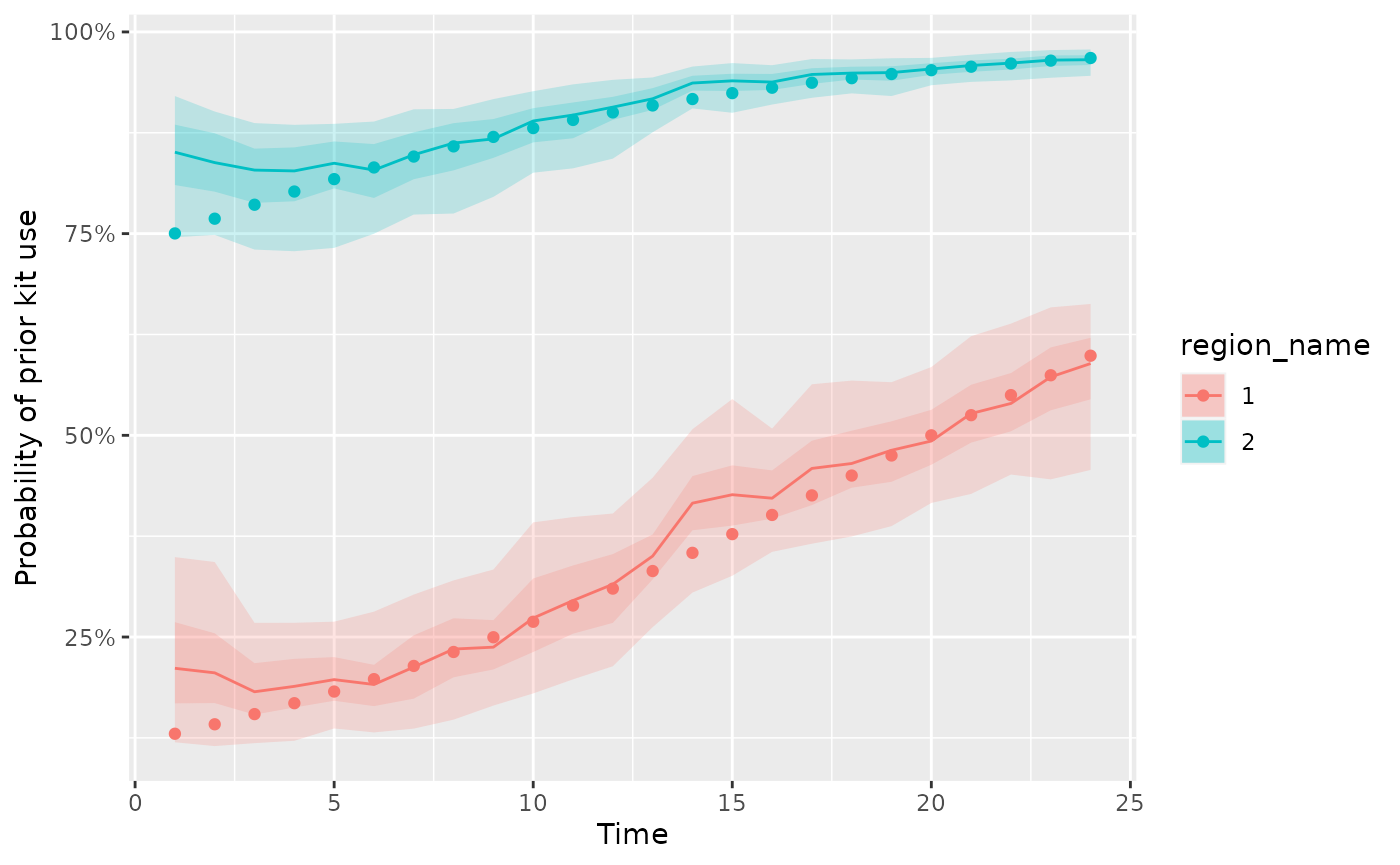
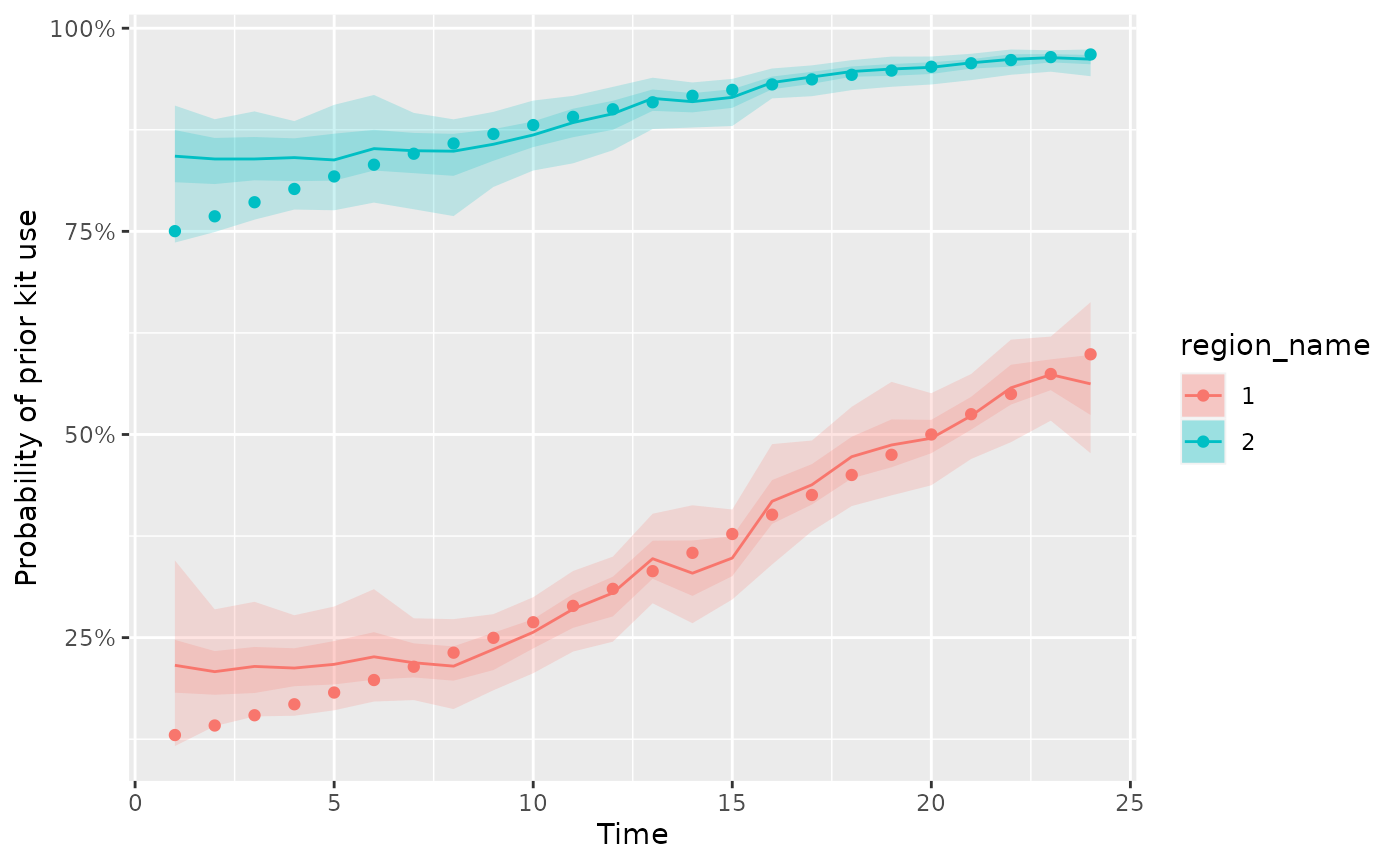
Deploying to gh-pages from @ sempwn/bennu@9a4c8904fc92a9faf738fc39748a7a899d02083f 🚀

diff --git a/articles/Introduction.html b/articles/Introduction.html
@@ -135,7 +135,7 @@
 <span><span class="co">#&gt; <span style="color: #555555;">This warning is displayed once every 8 hours.</span></span></span>
 <span><span class="co">#&gt; <span style="color: #555555;">Call `lifecycle::last_lifecycle_warnings()` to see where this warning was</span></span></span>
 <span><span class="co">#&gt; <span style="color: #555555;">generated.</span></span></span>
-<span><span class="co">#&gt; Warning: There were 8 divergent transitions after warmup. See</span></span>
+<span><span class="co">#&gt; Warning: There were 34 divergent transitions after warmup. See</span></span>
 <span><span class="co">#&gt; https://mc-stan.org/misc/warnings.html#divergent-transitions-after-warmup</span></span>
 <span><span class="co">#&gt; to find out why this is a problem and how to eliminate them.</span></span>
 <span><span class="co">#&gt; Warning: Examine the pairs() plot to diagnose sampling problems</span></span>
@@ -172,18 +172,18 @@
 <span></span>
 <span><span class="fu"><a href="https://mc-stan.org/posterior/reference/draws_summary.html" class="external-link">summarise_draws</a></span><span class="op">(</span><span class="va">fit</span>, <span class="fu"><a href="https://mc-stan.org/posterior/reference/draws_summary.html" class="external-link">default_summary_measures</a></span><span class="op">(</span><span class="op">)</span><span class="op">)</span></span>
 <span><span class="co">#&gt; <span style="color: #949494;"># A tibble: 462 × 7</span></span></span>
-<span><span class="co">#&gt;    variable   mean median    sd   mad    q5    q95</span></span>
-<span><span class="co">#&gt;    <span style="color: #949494; font-style: italic;">&lt;chr&gt;</span>     <span style="color: #949494; font-style: italic;">&lt;num&gt;</span>  <span style="color: #949494; font-style: italic;">&lt;num&gt;</span> <span style="color: #949494; font-style: italic;">&lt;num&gt;</span> <span style="color: #949494; font-style: italic;">&lt;num&gt;</span> <span style="color: #949494; font-style: italic;">&lt;num&gt;</span>  <span style="color: #949494; font-style: italic;">&lt;num&gt;</span></span></span>
-<span><span class="co">#&gt; <span style="color: #BCBCBC;"> 1</span> logp[1]  -<span style="color: #BB0000;">1.25</span>  -<span style="color: #BB0000;">1.26</span>  0.393 0.388 -<span style="color: #BB0000;">1.83</span> -<span style="color: #BB0000;">0.613</span></span></span>
-<span><span class="co">#&gt; <span style="color: #BCBCBC;"> 2</span> logp[2]  -<span style="color: #BB0000;">1.37</span>  -<span style="color: #BB0000;">1.36</span>  0.369 0.398 -<span style="color: #BB0000;">1.93</span> -<span style="color: #BB0000;">0.808</span></span></span>
-<span><span class="co">#&gt; <span style="color: #BCBCBC;"> 3</span> logp[3]  -<span style="color: #BB0000;">1.56</span>  -<span style="color: #BB0000;">1.55</span>  0.296 0.306 -<span style="color: #BB0000;">2.06</span> -<span style="color: #BB0000;">1.08</span> </span></span>
-<span><span class="co">#&gt; <span style="color: #BCBCBC;"> 4</span> logp[4]  -<span style="color: #BB0000;">1.48</span>  -<span style="color: #BB0000;">1.48</span>  0.280 0.257 -<span style="color: #BB0000;">1.96</span> -<span style="color: #BB0000;">1.11</span> </span></span>
-<span><span class="co">#&gt; <span style="color: #BCBCBC;"> 5</span> logp[5]  -<span style="color: #BB0000;">1.35</span>  -<span style="color: #BB0000;">1.34</span>  0.193 0.185 -<span style="color: #BB0000;">1.65</span> -<span style="color: #BB0000;">1.06</span> </span></span>
-<span><span class="co">#&gt; <span style="color: #BCBCBC;"> 6</span> logp[6]  -<span style="color: #BB0000;">1.51</span>  -<span style="color: #BB0000;">1.51</span>  0.244 0.239 -<span style="color: #BB0000;">1.92</span> -<span style="color: #BB0000;">1.10</span> </span></span>
-<span><span class="co">#&gt; <span style="color: #BCBCBC;"> 7</span> logp[7]  -<span style="color: #BB0000;">1.26</span>  -<span style="color: #BB0000;">1.29</span>  0.288 0.304 -<span style="color: #BB0000;">1.68</span> -<span style="color: #BB0000;">0.778</span></span></span>
-<span><span class="co">#&gt; <span style="color: #BCBCBC;"> 8</span> logp[8]  -<span style="color: #BB0000;">1.23</span>  -<span style="color: #BB0000;">1.19</span>  0.333 0.269 -<span style="color: #BB0000;">1.78</span> -<span style="color: #BB0000;">0.730</span></span></span>
-<span><span class="co">#&gt; <span style="color: #BCBCBC;"> 9</span> logp[9]  -<span style="color: #BB0000;">1.18</span>  -<span style="color: #BB0000;">1.17</span>  0.209 0.182 -<span style="color: #BB0000;">1.55</span> -<span style="color: #BB0000;">0.846</span></span></span>
-<span><span class="co">#&gt; <span style="color: #BCBCBC;">10</span> logp[10] -<span style="color: #BB0000;">0.940</span> -<span style="color: #BB0000;">0.928</span> 0.318 0.313 -<span style="color: #BB0000;">1.48</span> -<span style="color: #BB0000;">0.453</span></span></span>
+<span><span class="co">#&gt;    variable  mean median     sd    mad    q5    q95</span></span>
+<span><span class="co">#&gt;    <span style="color: #949494; font-style: italic;">&lt;chr&gt;</span>    <span style="color: #949494; font-style: italic;">&lt;num&gt;</span>  <span style="color: #949494; font-style: italic;">&lt;num&gt;</span>  <span style="color: #949494; font-style: italic;">&lt;num&gt;</span>  <span style="color: #949494; font-style: italic;">&lt;num&gt;</span> <span style="color: #949494; font-style: italic;">&lt;num&gt;</span>  <span style="color: #949494; font-style: italic;">&lt;num&gt;</span></span></span>
+<span><span class="co">#&gt; <span style="color: #BCBCBC;"> 1</span> logp[1]  -<span style="color: #BB0000;">1.31</span>  -<span style="color: #BB0000;">1.28</span> 0.367  0.308  -<span style="color: #BB0000;">2.03</span> -<span style="color: #BB0000;">0.668</span></span></span>
+<span><span class="co">#&gt; <span style="color: #BCBCBC;"> 2</span> logp[2]  -<span style="color: #BB0000;">1.35</span>  -<span style="color: #BB0000;">1.37</span> 0.283  0.283  -<span style="color: #BB0000;">1.88</span> -<span style="color: #BB0000;">0.920</span></span></span>
+<span><span class="co">#&gt; <span style="color: #BCBCBC;"> 3</span> logp[3]  -<span style="color: #BB0000;">1.29</span>  -<span style="color: #BB0000;">1.29</span> 0.278  0.283  -<span style="color: #BB0000;">1.71</span> -<span style="color: #BB0000;">0.784</span></span></span>
+<span><span class="co">#&gt; <span style="color: #BCBCBC;"> 4</span> logp[4]  -<span style="color: #BB0000;">1.35</span>  -<span style="color: #BB0000;">1.36</span> 0.193  0.209  -<span style="color: #BB0000;">1.68</span> -<span style="color: #BB0000;">1.07</span> </span></span>
+<span><span class="co">#&gt; <span style="color: #BCBCBC;"> 5</span> logp[5]  -<span style="color: #BB0000;">1.28</span>  -<span style="color: #BB0000;">1.27</span> 0.223  0.215  -<span style="color: #BB0000;">1.67</span> -<span style="color: #BB0000;">0.916</span></span></span>
+<span><span class="co">#&gt; <span style="color: #BCBCBC;"> 6</span> logp[6]  -<span style="color: #BB0000;">1.19</span>  -<span style="color: #BB0000;">1.24</span> 0.261  0.264  -<span style="color: #BB0000;">1.56</span> -<span style="color: #BB0000;">0.747</span></span></span>
+<span><span class="co">#&gt; <span style="color: #BCBCBC;"> 7</span> logp[7]  -<span style="color: #BB0000;">1.25</span>  -<span style="color: #BB0000;">1.25</span> 0.173  0.185  -<span style="color: #BB0000;">1.55</span> -<span style="color: #BB0000;">1.00</span> </span></span>
+<span><span class="co">#&gt; <span style="color: #BCBCBC;"> 8</span> logp[8]  -<span style="color: #BB0000;">1.33</span>  -<span style="color: #BB0000;">1.32</span> 0.170  0.161  -<span style="color: #BB0000;">1.61</span> -<span style="color: #BB0000;">1.09</span> </span></span>
+<span><span class="co">#&gt; <span style="color: #BCBCBC;"> 9</span> logp[9]  -<span style="color: #BB0000;">1.21</span>  -<span style="color: #BB0000;">1.21</span> 0.101  0.085<span style="text-decoration: underline;">8</span> -<span style="color: #BB0000;">1.40</span> -<span style="color: #BB0000;">1.07</span> </span></span>
+<span><span class="co">#&gt; <span style="color: #BCBCBC;">10</span> logp[10] -<span style="color: #BB0000;">1.05</span>  -<span style="color: #BB0000;">1.05</span> 0.081<span style="text-decoration: underline;">8</span> 0.082<span style="text-decoration: underline;">3</span> -<span style="color: #BB0000;">1.18</span> -<span style="color: #BB0000;">0.924</span></span></span>
 <span><span class="co">#&gt; <span style="color: #949494;"># ℹ 452 more rows</span></span></span></code></pre></div>
 <p>We can compare two different model fits of the probability of prior
 kit use to simulated data using the <code>plot_kit_use</code>
@@ -246,11 +246,11 @@ probability of naloxone use in time.</p>
 <span><span class="va">rw2_fit</span> <span class="op">&lt;-</span> <span class="fu"><a href="../reference/est_naloxone.html">est_naloxone</a></span><span class="op">(</span><span class="va">d</span>,</span>
 <span>                    rw_type <span class="op">=</span> <span class="fl">2</span>,</span>
 <span>                    iter<span class="op">=</span><span class="fl">100</span><span class="op">)</span></span>
-<span><span class="co">#&gt; Warning: There were 4 divergent transitions after warmup. See</span></span>
+<span><span class="co">#&gt; Warning: There were 44 divergent transitions after warmup. See</span></span>
 <span><span class="co">#&gt; https://mc-stan.org/misc/warnings.html#divergent-transitions-after-warmup</span></span>
 <span><span class="co">#&gt; to find out why this is a problem and how to eliminate them.</span></span>
-<span><span class="co">#&gt; Warning: There were 1 transitions after warmup that exceeded the maximum treedepth. Increase max_treedepth above 10. See</span></span>
-<span><span class="co">#&gt; https://mc-stan.org/misc/warnings.html#maximum-treedepth-exceeded</span></span>
+<span><span class="co">#&gt; Warning: There were 2 chains where the estimated Bayesian Fraction of Missing Information was low. See</span></span>
+<span><span class="co">#&gt; https://mc-stan.org/misc/warnings.html#bfmi-low</span></span>
 <span><span class="co">#&gt; Warning: Examine the pairs() plot to diagnose sampling problems</span></span>
 <span><span class="co">#&gt; Warning: The largest R-hat is NA, indicating chains have not mixed.</span></span>
 <span><span class="co">#&gt; Running the chains for more iterations may help. See</span></span>
@@ -270,16 +270,16 @@ probability of naloxone use in time.</p>
 <span><span class="co">#&gt; <span style="color: #949494;"># A tibble: 462 × 4</span></span></span>
 <span><span class="co">#&gt;    variable  rhat ess_bulk ess_tail</span></span>
 <span><span class="co">#&gt;    <span style="color: #949494; font-style: italic;">&lt;chr&gt;</span>    <span style="color: #949494; font-style: italic;">&lt;num&gt;</span>    <span style="color: #949494; font-style: italic;">&lt;num&gt;</span>    <span style="color: #949494; font-style: italic;">&lt;num&gt;</span></span></span>
-<span><span class="co">#&gt; <span style="color: #BCBCBC;"> 1</span> logp[1]   1.13     24.3    132. </span></span>
-<span><span class="co">#&gt; <span style="color: #BCBCBC;"> 2</span> logp[2]   1.14     21.5     87.2</span></span>
-<span><span class="co">#&gt; <span style="color: #BCBCBC;"> 3</span> logp[3]   1.12     26.8     87.9</span></span>
-<span><span class="co">#&gt; <span style="color: #BCBCBC;"> 4</span> logp[4]   1.07     41.3     75.1</span></span>
-<span><span class="co">#&gt; <span style="color: #BCBCBC;"> 5</span> logp[5]   1.08     50.5     87.0</span></span>
-<span><span class="co">#&gt; <span style="color: #BCBCBC;"> 6</span> logp[6]   1.05     74.8    131. </span></span>
-<span><span class="co">#&gt; <span style="color: #BCBCBC;"> 7</span> logp[7]   1.07     53.7    113. </span></span>
-<span><span class="co">#&gt; <span style="color: #BCBCBC;"> 8</span> logp[8]   1.03     79.2    154. </span></span>
-<span><span class="co">#&gt; <span style="color: #BCBCBC;"> 9</span> logp[9]   1.01    142.     154. </span></span>
-<span><span class="co">#&gt; <span style="color: #BCBCBC;">10</span> logp[10]  1.04    140.     156. </span></span>
+<span><span class="co">#&gt; <span style="color: #BCBCBC;"> 1</span> logp[1]   1.58     28.6     31.0</span></span>
+<span><span class="co">#&gt; <span style="color: #BCBCBC;"> 2</span> logp[2]   1.52     30.6     31.0</span></span>
+<span><span class="co">#&gt; <span style="color: #BCBCBC;"> 3</span> logp[3]   1.50     22.4     30.7</span></span>
+<span><span class="co">#&gt; <span style="color: #BCBCBC;"> 4</span> logp[4]   1.51     28.7     30.0</span></span>
+<span><span class="co">#&gt; <span style="color: #BCBCBC;"> 5</span> logp[5]   1.31     12.2     70.2</span></span>
+<span><span class="co">#&gt; <span style="color: #BCBCBC;"> 6</span> logp[6]   1.23     15.3    109. </span></span>
+<span><span class="co">#&gt; <span style="color: #BCBCBC;"> 7</span> logp[7]   1.36     43.1    158. </span></span>
+<span><span class="co">#&gt; <span style="color: #BCBCBC;"> 8</span> logp[8]   1.19     36.2    169. </span></span>
+<span><span class="co">#&gt; <span style="color: #BCBCBC;"> 9</span> logp[9]   1.11     35.8    233. </span></span>
+<span><span class="co">#&gt; <span style="color: #BCBCBC;">10</span> logp[10]  1.13     28.4    189. </span></span>
 <span><span class="co">#&gt; <span style="color: #949494;"># ℹ 452 more rows</span></span></span></code></pre></div>
 <p>We can compare two different model fits of the probability of prior
 kit use to simulated data using the <code>plot_kit_use</code>
@@ -308,10 +308,10 @@ months</p>
 <code class="sourceCode R"><span><span class="va">missing_fit</span> <span class="op">&lt;-</span> <span class="fu"><a href="../reference/est_naloxone.html">est_naloxone</a></span><span class="op">(</span><span class="va">d_missing</span>,</span>
 <span>                    rw_type <span class="op">=</span> <span class="fl">2</span>,</span>
 <span>                    iter<span class="op">=</span><span class="fl">100</span><span class="op">)</span></span>
-<span><span class="co">#&gt; Warning: There were 10 divergent transitions after warmup. See</span></span>
+<span><span class="co">#&gt; Warning: There were 5 divergent transitions after warmup. See</span></span>
 <span><span class="co">#&gt; https://mc-stan.org/misc/warnings.html#divergent-transitions-after-warmup</span></span>
 <span><span class="co">#&gt; to find out why this is a problem and how to eliminate them.</span></span>
-<span><span class="co">#&gt; Warning: There were 2 chains where the estimated Bayesian Fraction of Missing Information was low. See</span></span>
+<span><span class="co">#&gt; Warning: There were 4 chains where the estimated Bayesian Fraction of Missing Information was low. See</span></span>
 <span><span class="co">#&gt; https://mc-stan.org/misc/warnings.html#bfmi-low</span></span>
 <span><span class="co">#&gt; Warning: Examine the pairs() plot to diagnose sampling problems</span></span>
 <span><span class="co">#&gt; Warning: The largest R-hat is NA, indicating chains have not mixed.</span></span>

diff --git a/authors.html b/authors.html
@@ -66,6 +66,10 @@
           <p><strong>Samantha Bardwell</strong>. Contributor. 
           </p>
         </li>
+        <li>
+          <p><strong>Andrew Johnson</strong>. Contributor. 
+          </p>
+        </li>
       </ul></div>
     <div class="section level2 citation-section">
     <div>
